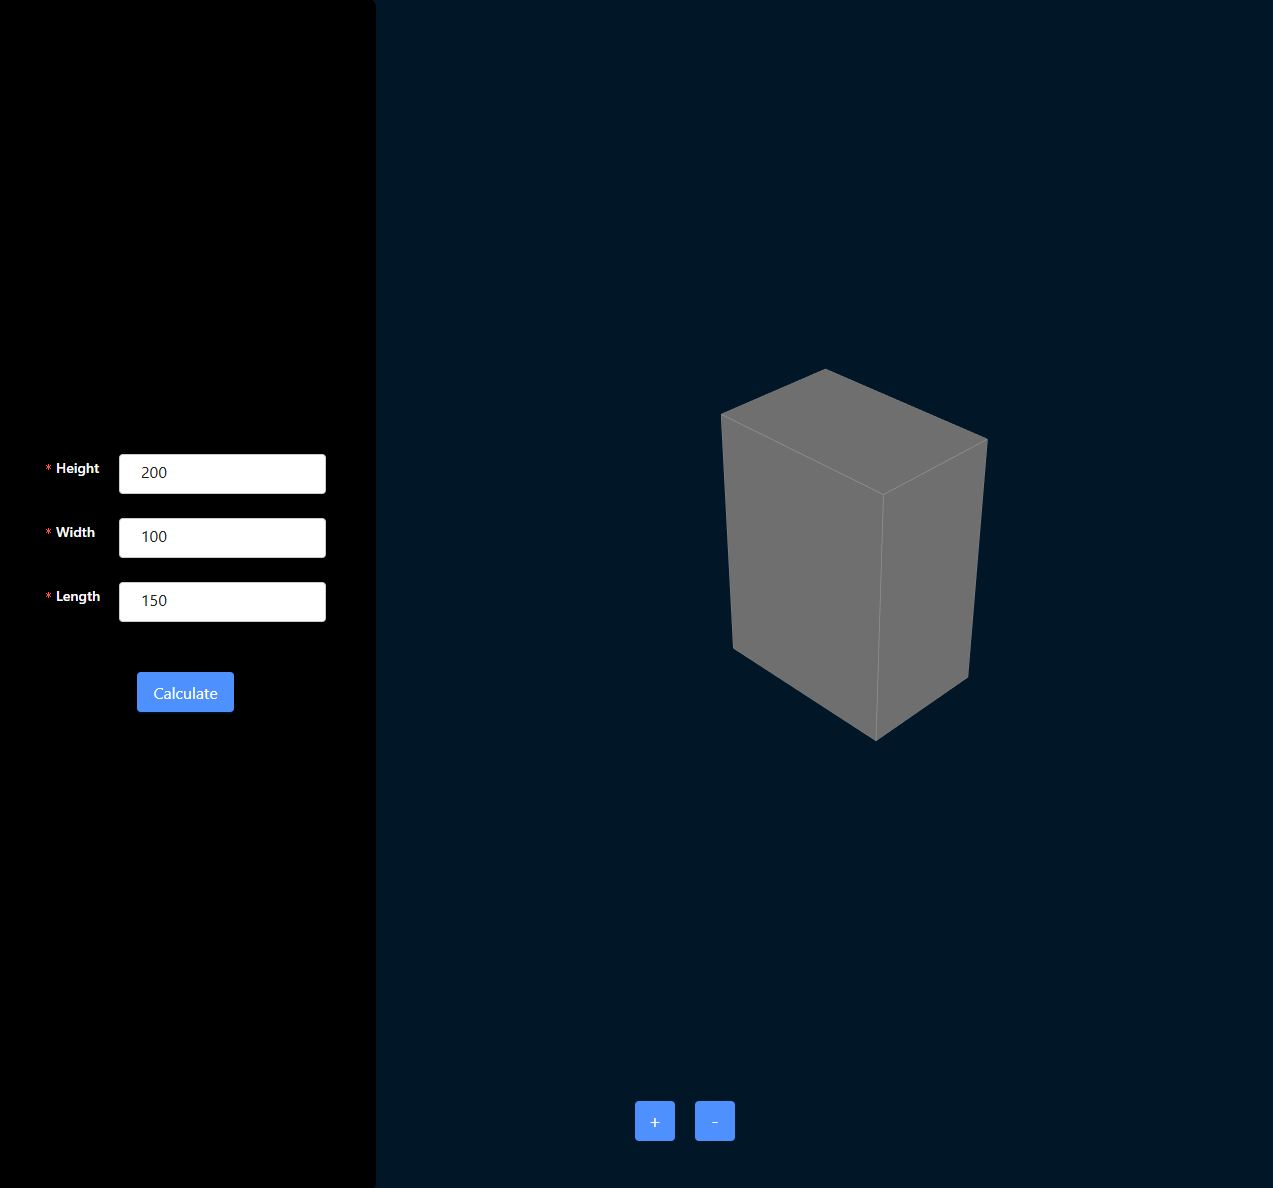
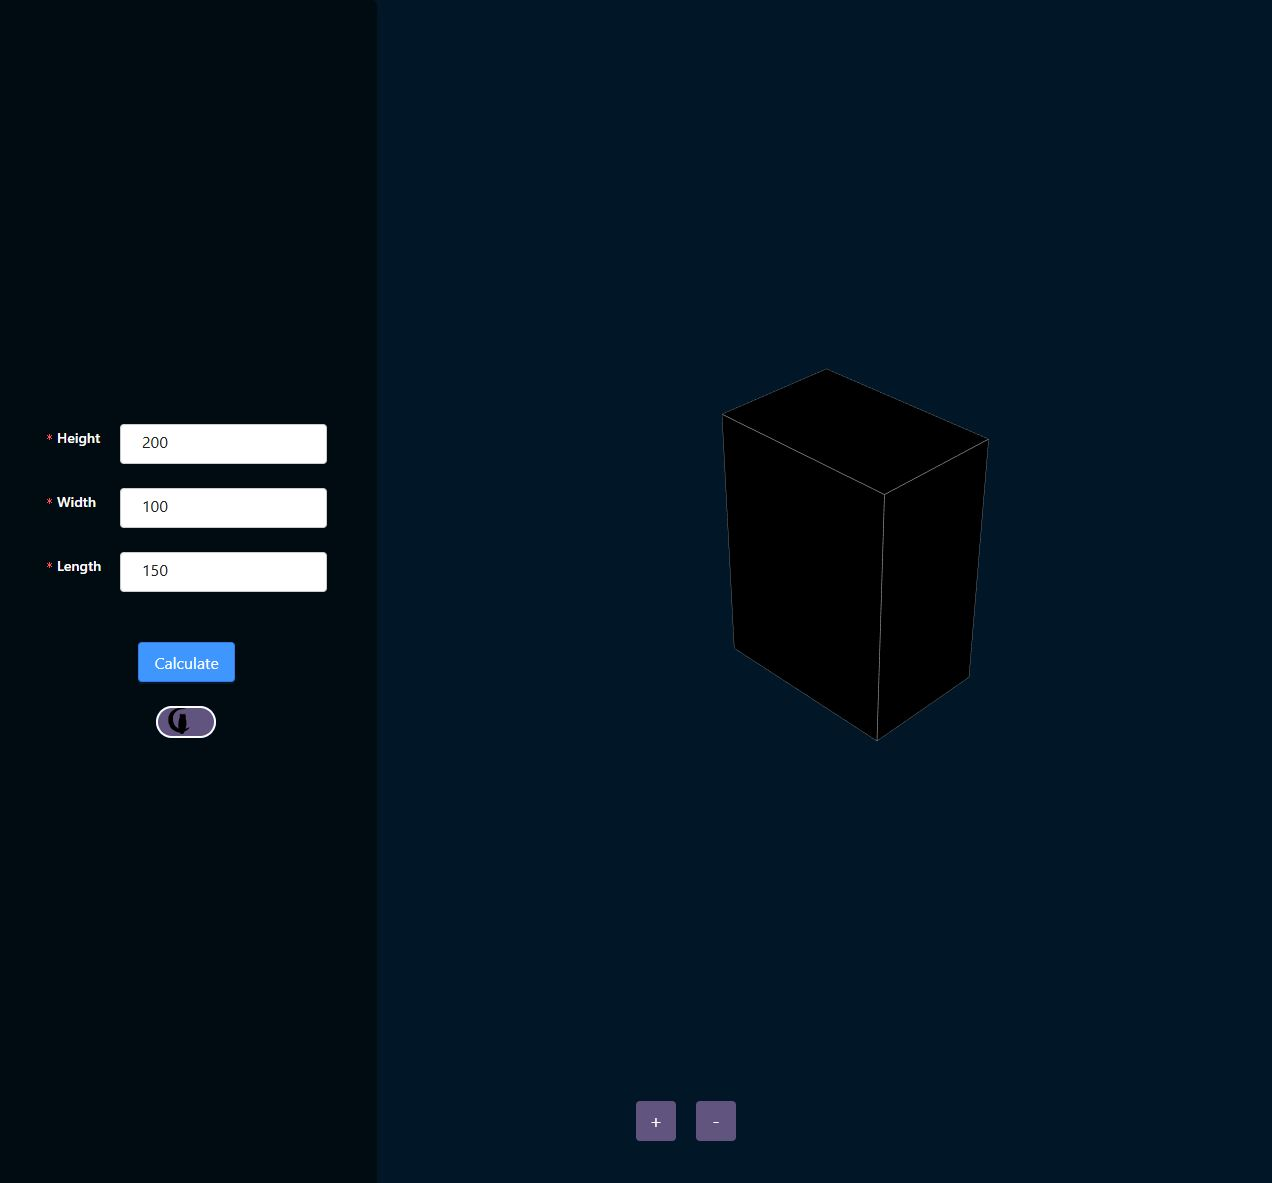
readme3

Changed region(s): [[0.5519, 0.3043, 0.7972, 0.6391], [0.0307, 0.3347, 0.2759, 0.6391], [0.4906, 0.9129, 0.5825, 0.9738]]

diff --git a/README.md b/README.md
@@ -1,6 +1,6 @@
 # Тестовое задание на позицию Web-разработчика
 
-Стек React + TS
+### React + TS
 
 ## The Task.
 
@@ -46,3 +46,4 @@ server.
   ## Скриншот
 
   ![alt text](./src/assets/screen.JPG)
+  ![alt text](./src/assets/screen2.JPG)
